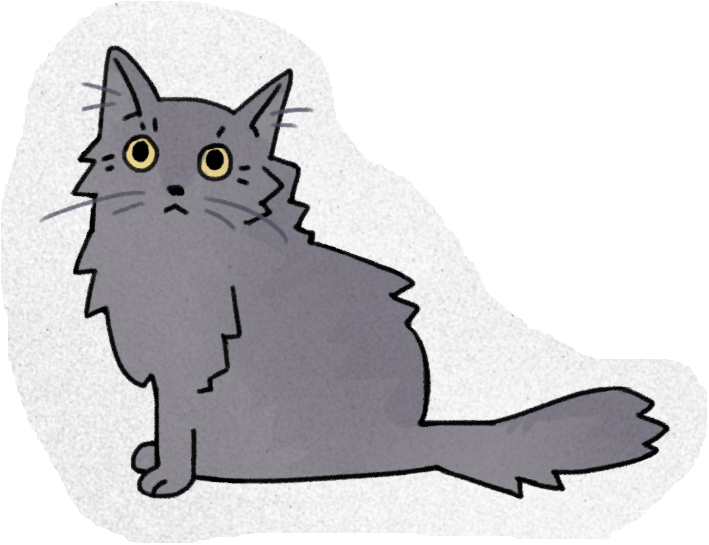
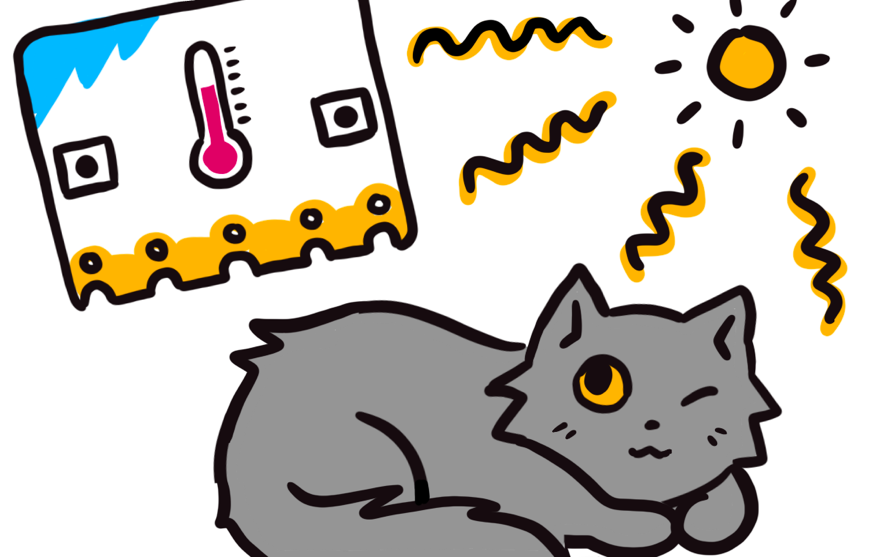
updated lychee image and added card to homepage

diff --git a/docs/tutorials-v2.md b/docs/tutorials-v2.md
@@ -6,6 +6,12 @@ Here are some cool tutorials to get you started with your new @boardname@ (V2)!
 
 ```codecard
 [{
+  "name": "Cat Napping",
+  "url":"/projects/v2-cat-napping",
+  "description": "Use data logging to help Lychee find sun spots.",
+  "imageUrl": "/static/mb/projects/cat-napping/1_lychee.png",
+  "cardType": "tutorial"
+}, {
   "name": "Pet Hamster",
   "url":"/projects/v2-pet-hamster",
   "description": "Interact with your very own micro:bit hamster named Cyrus.",

diff --git a/docs/projects.md b/docs/projects.md
@@ -11,7 +11,7 @@
     {
         "name": "Tutorials for the new micro:bit (V2)",
         "url": "/tutorials-v2",
-        "imageUrl": "/static/mb/projects/pet-hamster.png"
+        "imageUrl": "/static/mb/projects/cat-napping/1_lychee.png"
     },
     {
         "name": "Live Coding",
